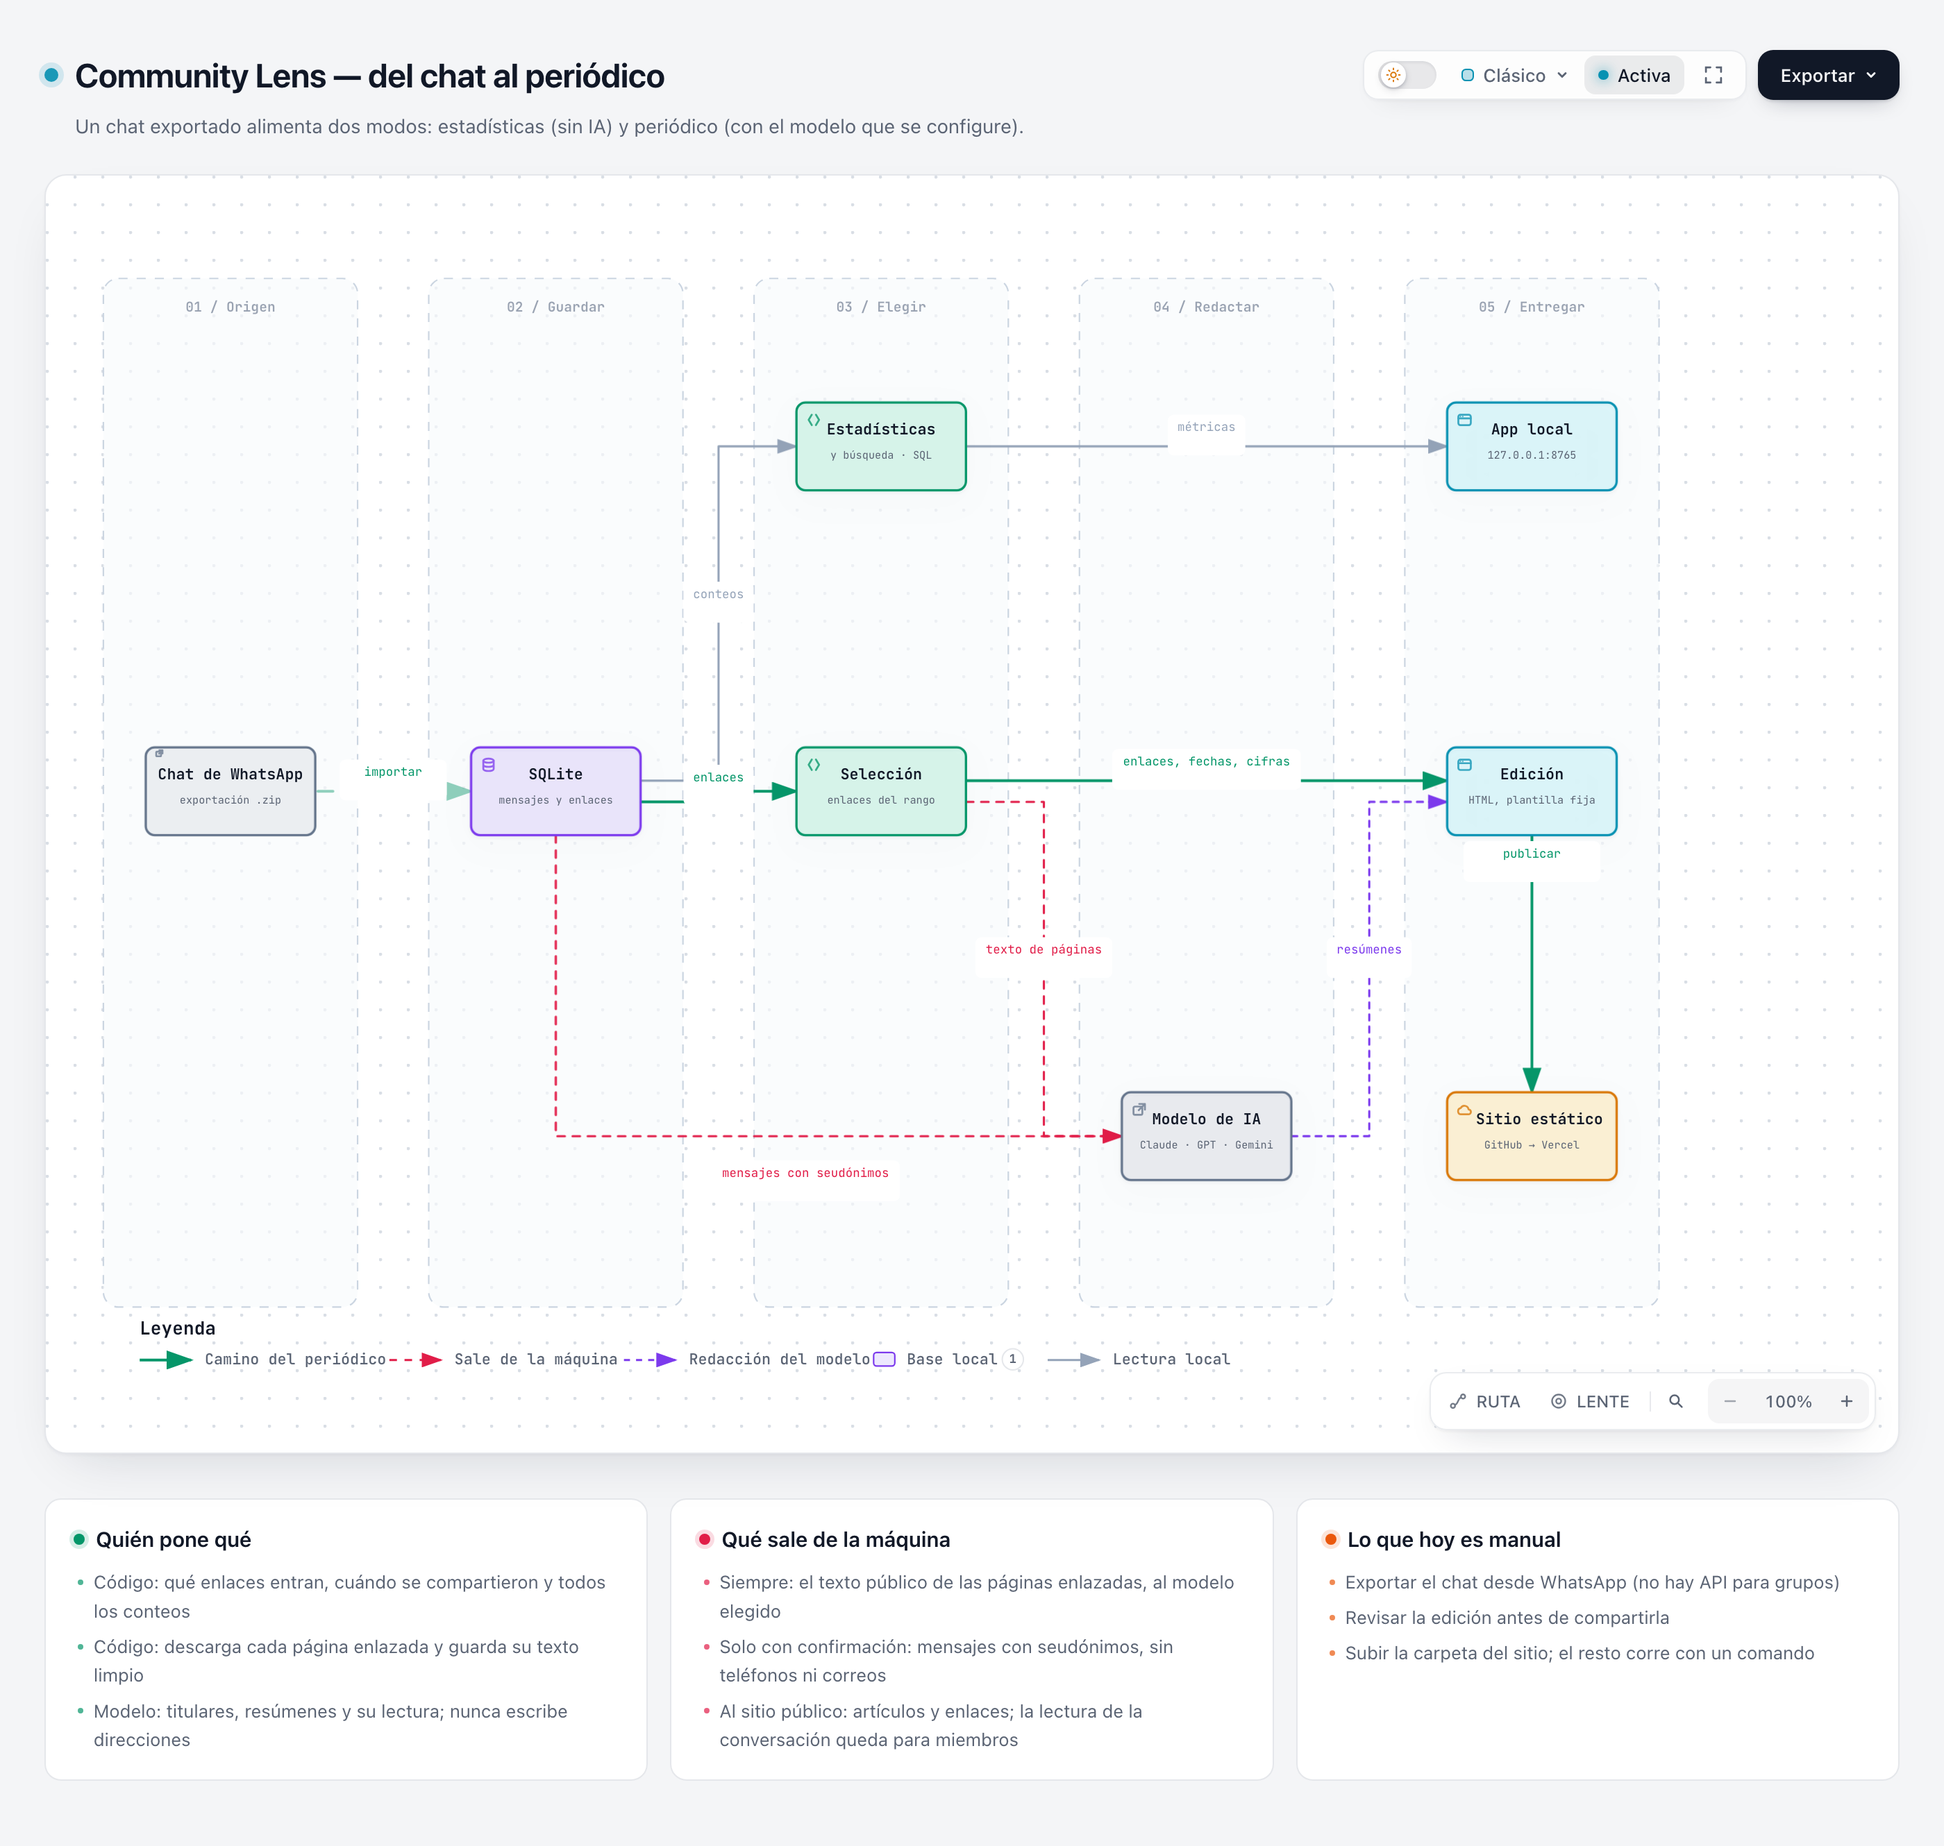
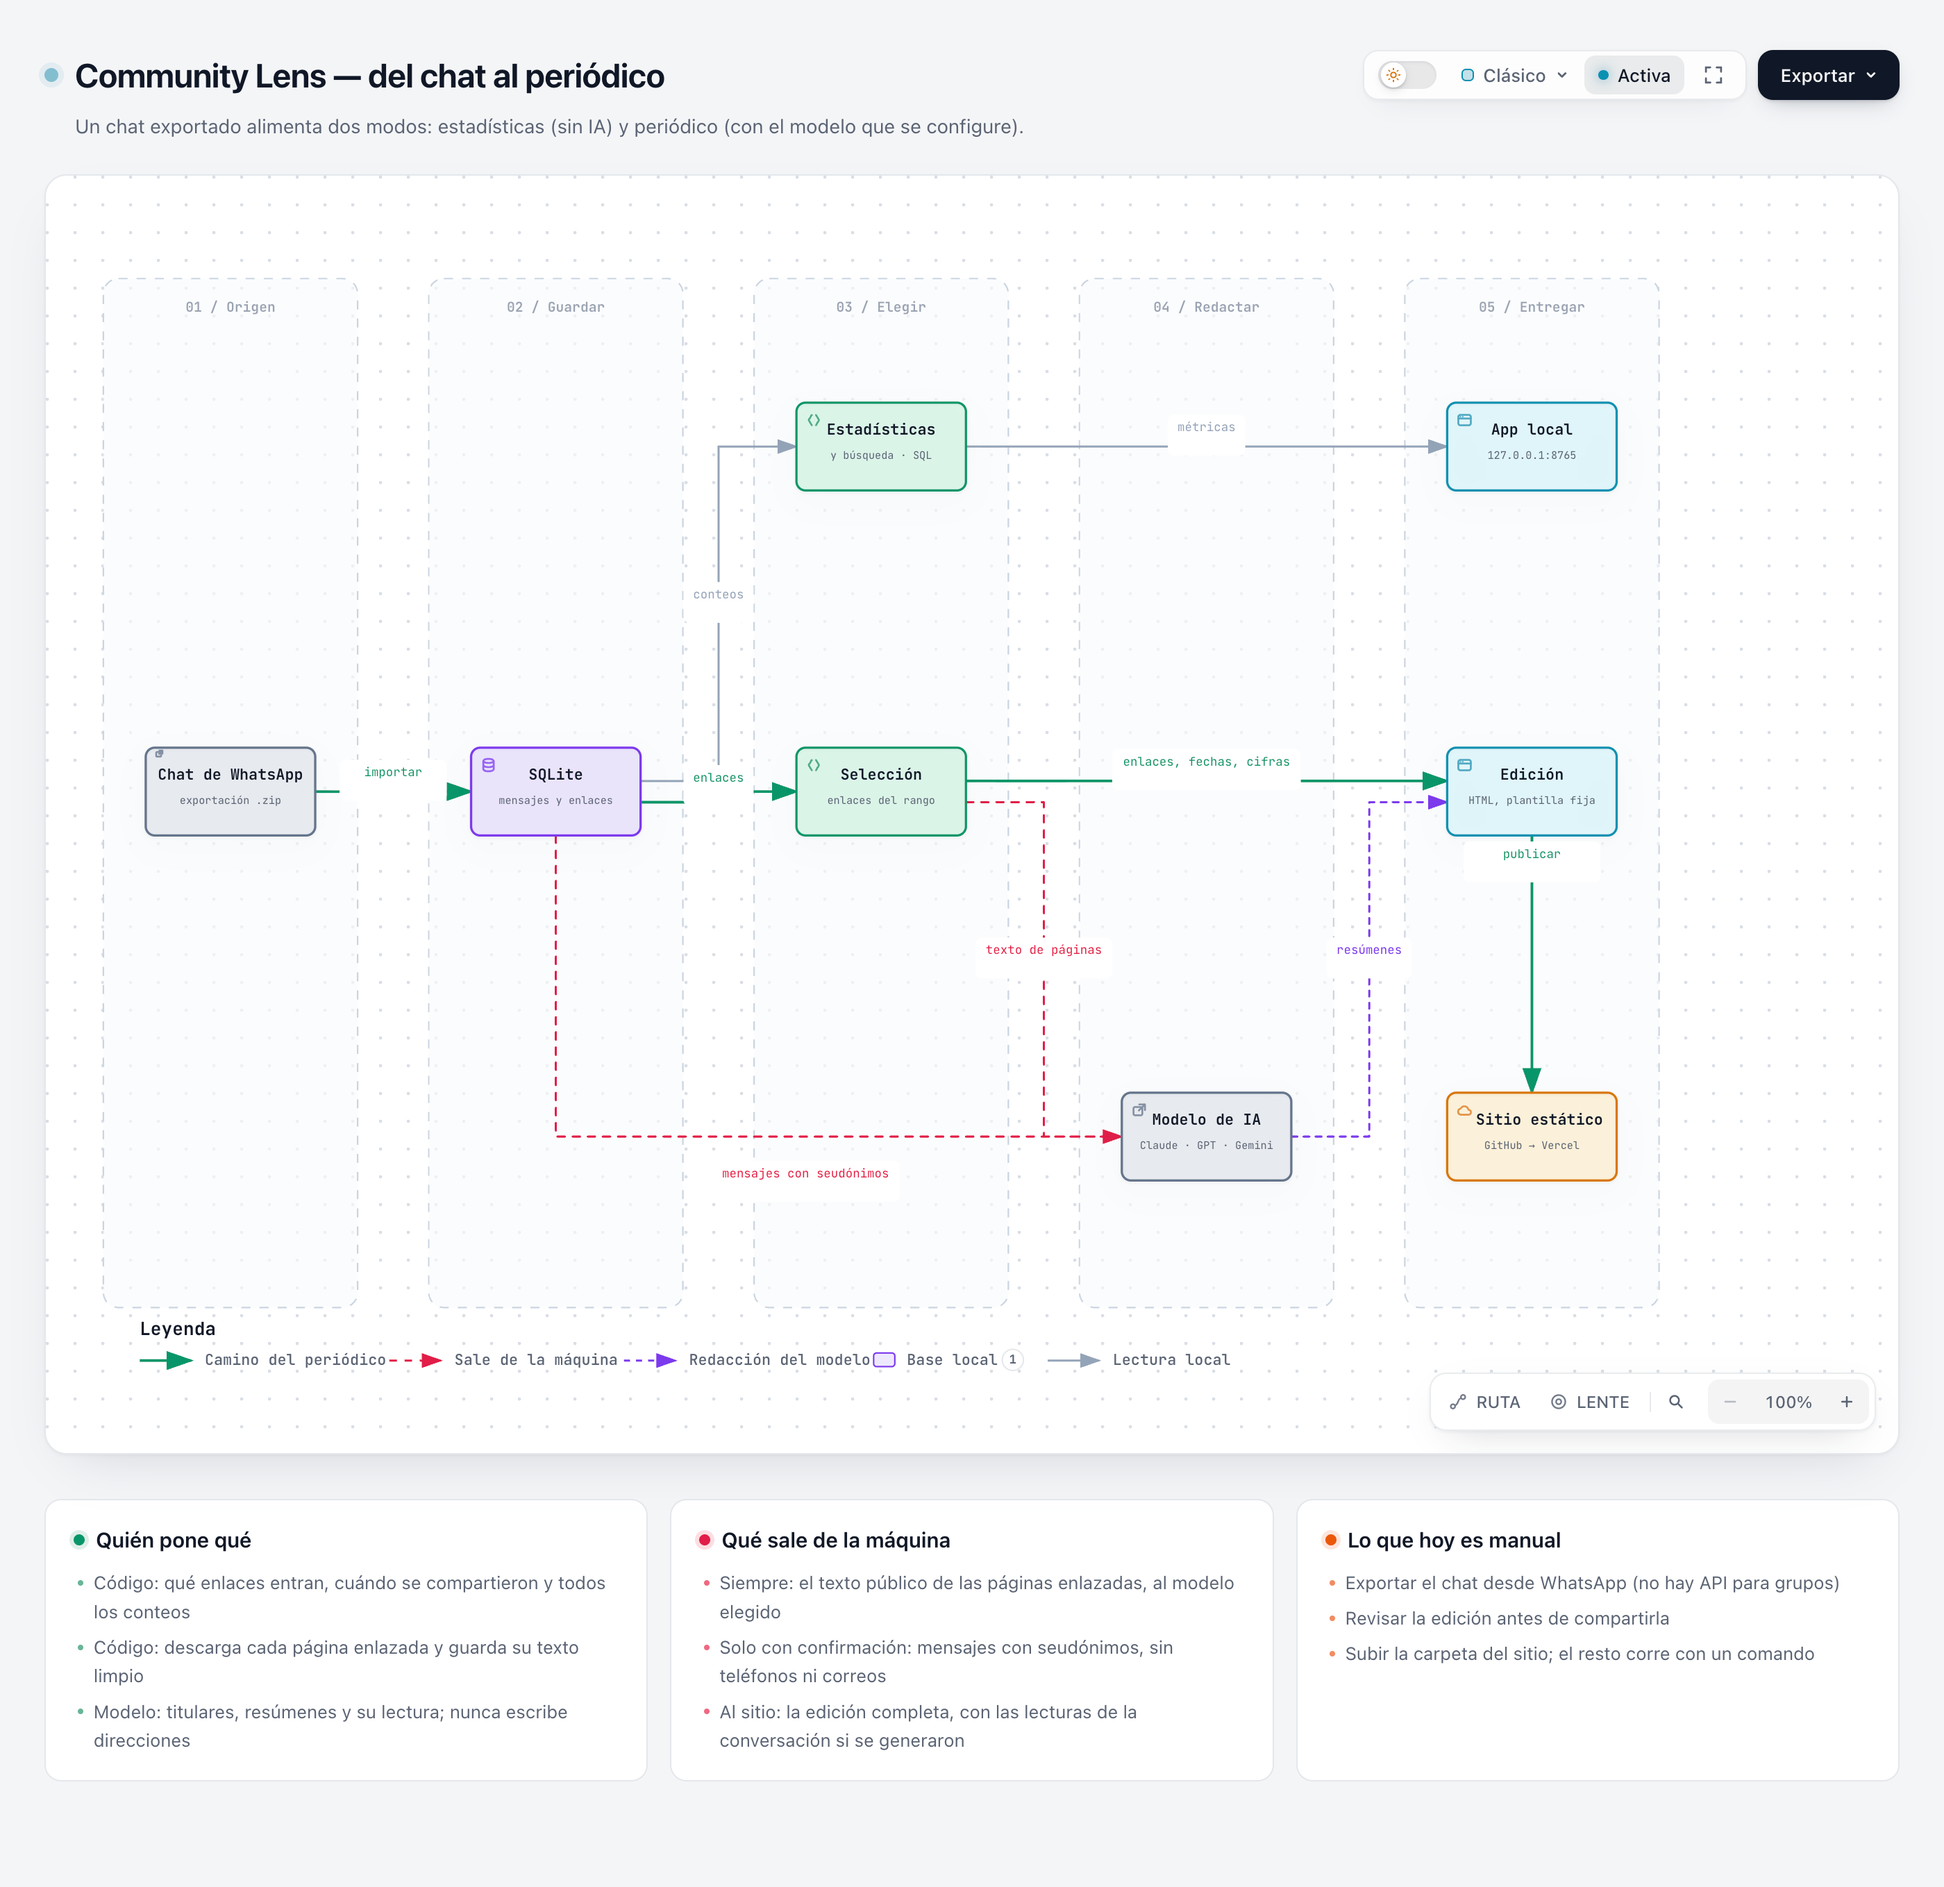
chore: documentación y diagrama del periódico actualizados (#35)

diff --git a/docs/diagramas/periodico.html b/docs/diagramas/periodico.html
@@ -5190,7 +5190,7 @@ OTHER DEALINGS IN THE FONT SOFTWARE.
         <g data-detail="context" data-edge-from="edition" data-edge-to="site" data-edge-label="publicar" data-edge-key="8" data-edge-id="publicar">
           <rect x="914.8" y="418" width="90.4" height="27" rx="4" class="c-mask"/>
           <text x="960" y="429" class="t-edge-emphasis" font-size="8" text-anchor="middle">publicar</text>
-        <text data-detail="fine" x="960" y="440" class="t-dim" font-size="7" text-anchor="middle">sin conversación</text>
+        <text data-detail="fine" x="960" y="440" class="t-dim" font-size="7" text-anchor="middle">edición completa</text>
         </g>
 
         <!-- Legend -->
@@ -5413,7 +5413,7 @@ OTHER DEALINGS IN THE FONT SOFTWARE.
         <ul>
           <li>Siempre: el texto público de las páginas enlazadas, al modelo elegido</li>
           <li>Solo con confirmación: mensajes con seudónimos, sin teléfonos ni correos</li>
-          <li>Al sitio público: artículos y enlaces; la lectura de la conversación queda para miembros</li>
+          <li>Al sitio: la edición completa, con las lecturas de la conversación si se generaron</li>
         </ul>
       </div>
 

diff --git a/README.md b/README.md
@@ -78,7 +78,7 @@ Sin pantalla, para automatizarlo:
 
 Importa la exportación, genera la edición de los 7 días que terminan en el último día con mensajes y escribe
 `sitio/index.html` más una página por edición en `sitio/ediciones/`. Es solo HTML: se sube a cualquier hosting
-estático. `.venv/bin/python -m community_lens periodico --help` lista todas las opciones (rango, modelo, lecturas de la
+estático. Lo que subás es la edición completa: si generaste lecturas de la conversación, van incluidas. `.venv/bin/python -m community_lens periodico --help` lista todas las opciones (rango, modelo, lecturas de la
 conversación, publicar sin generar). Más detalle en [docs/periodico.md](docs/periodico.md).
 
 ## Privacidad
@@ -105,7 +105,7 @@ ellas; tus archivos originales no se tocan. El resto está en [docs/seguridad.md
 - OpenAI y Gemini están implementados y probados con respuestas simuladas, pero no contra el servicio real
   (Claude sí).
 - El TXT de WhatsApp no trae IDs de mensaje, reacciones, respuestas citadas, adjuntos ni lista de miembros.
-  No existen enlaces para abrir un mensaje en WhatsApp, ni se puede calcular "miembros silenciosos".
+  No existen enlaces para abrir un mensaje en WhatsApp.
 - Las horas son las del teléfono que exportó. Dos exportaciones del mismo chat hechas en zonas distintas necesitan
   que declarés la zona de cada una para reconciliarse.
 - La reconciliación compara hora, autor y texto. Si dos teléfonos muestran al mismo autor de forma distinta
@@ -121,27 +121,7 @@ ellas; tus archivos originales no se tocan. El resto está en [docs/seguridad.md
 
 ## Desarrollo
 
-```bash
-.venv/bin/pip install -r requirements-dev.txt   # una vez
-./scripts/check.sh                              # linter + pruebas (+ frontend si hay node_modules)
-```
-
-Las dependencias de Python van con versión exacta en `requirements.txt` y `requirements-dev.txt`, que se generan
-desde `requirements.in` y `requirements-dev.in`. Para agregar o actualizar una, editá el `.in` y regenerá con
-[pip-tools](https://pip-tools.readthedocs.io/) (`pip-compile --strip-extras requirements.in` y lo mismo con
-`requirements-dev.in`); Dependabot propone las actualizaciones una vez al mes.
-
-Las pruebas usan solo datos sintéticos (`tests/fixtures/`), una base temporal por prueba y ninguna llamada de red;
-tampoco leen tu `.env`. GitHub Actions corre el linter y las pruebas (Python 3.11 y 3.12) en cada pull request
-(`.github/workflows/tests.yml`); los cambios entran a `main` por pull request. Cómo proponer uno:
-[CONTRIBUTING.md](CONTRIBUTING.md).
-
-Para cambiar el frontend (TypeScript en `web/src/`, compilado a `web/dist/`, que va versionado):
-
-```bash
-npm install      # una vez; sin esto, pytest se salta la prueba que compila el frontend
-npm run check    # regenera el esquema de la API y compila; una prueba falla si quedan desactualizados
-```
+Pruebas, dependencias y cómo proponer un cambio: [CONTRIBUTING.md](CONTRIBUTING.md).
 
 ## Documentación
 
@@ -166,4 +146,4 @@ Los diagramas están hechos con [Archify](https://github.com/tt-a1i/archify) (li
 Community Lens se publica bajo la [licencia MIT](LICENSE). Las librerías copiadas en `web/vendor/` conservan la suya
 (ver [web/vendor/README.md](web/vendor/README.md)).
 
-[@stern9](https://github.com/stern9): 🤖 Generated with [Claude Code](https://claude.com/claude-code) · ☀ Y Sol contraataca, desde [Codex](https://openai.com/codex/).
+[@stern9](https://github.com/stern9): 🤖 Generated with [Claude Code](https://claude.com/claude-code) (Claude Opus 5.5) · ☀ Y Sol contraataca, desde [Codex](https://openai.com/codex/).

diff --git a/CONTRIBUTING.md b/CONTRIBUTING.md
@@ -30,18 +30,26 @@ conocer (sin framework en el frontend, SQL sin ORM, nada sale de la máquina sin
 
 ## Cambiar código
 
-1. Arrancá la app y corré las pruebas como indica el [README](README.md#desarrollo).
+1. Arrancá la app como indica el [README](README.md#arrancar) e instalá las herramientas de desarrollo:
+   ```bash
+   .venv/bin/pip install -r requirements-dev.txt   # una vez
+   ./scripts/check.sh                              # lo mismo que corre CI: linter, frontend (si hay node_modules) y pruebas
+   ```
 2. Leé [AGENTS.md](AGENTS.md): son las reglas del proyecto y valen igual si el cambio lo escribe una persona o
    un agente de código. Si usás un agente, vos respondés por lo que entrega.
-3. Hacé un cambio acotado, con su prueba. Antes de entregarlo:
-   ```bash
-   ./scripts/check.sh   # lo mismo que corre CI: linter, pruebas y, si tocaste web/src/, el frontend
-   ```
+3. Hacé un cambio acotado, con su prueba, y corré `./scripts/check.sh` antes de entregarlo. Si tocás `web/src/`,
+   hace falta Node y regenerar `web/dist/`: ver [docs/frontend.md](docs/frontend.md).
 4. Mensajes de commit: una línea corta con prefijo de tipo (`feature:`, `fix:`, `chore:`).
 5. Abrí un pull request desde una rama (`fix/…`, `feature/…` o `chore/…`); a `main` no se sube directo.
    Decí qué issue resuelve, qué verificaste y qué no. Se integra con las pruebas de CI en verde.
 
-Las pruebas no usan la red ni datos reales; un cambio que lo necesite para pasar no se acepta.
+Las pruebas usan solo datos sintéticos (`tests/fixtures/`), una base temporal por prueba y ninguna llamada de red;
+tampoco leen tu `.env`. Un cambio que necesite red o datos reales para pasar no se acepta.
+
+**Dependencias de Python.** Van con versión exacta en `requirements.txt` y `requirements-dev.txt`, que se generan
+desde `requirements.in` y `requirements-dev.in`. Para agregar o actualizar una, editá el `.in` y regenerá con
+[pip-tools](https://pip-tools.readthedocs.io/) (`pip-compile --strip-extras requirements.in` y lo mismo con
+`requirements-dev.in`); Dependabot propone las actualizaciones una vez al mes.
 
 ## Qué pasa con tu pull request
 

diff --git a/docs/periodico.md b/docs/periodico.md
@@ -67,12 +67,8 @@ Una edición se guarda como JSON en `editions.data` y se dibuja de nuevo cada ve
 mejora de la plantilla llega también a las ediciones viejas. `community_lens/edition.py` es el único lugar que
 conoce sus campos: los declara, lleva un número de formato (`FORMAT`) y tiene una sola función, `upgrade()`, que
 convierte cualquier edición guardada con una forma anterior a la actual. Abrir una edición vieja no la reescribe.
+La columna `editions.html`, de una versión anterior, no se lee (ver [arquitectura.md](arquitectura.md#modelo-de-datos)).
 
-La columna `editions.html` quedó de una versión anterior que guardaba también la página ya dibujada. No se lee;
-las ediciones nuevas la dejan vacía y las viejas conservan lo que tenían.
-
-## Origen de la idea
-
-El formato de periódico y la idea de que un modelo lea las páginas y arme la portada vienen de
-[ai-newtab](https://github.com/ThariqS/ai-newtab) de Thariq (`ThariqS`, licencia MIT). Aquí no se usa su código:
-la lectura se hace en Python y el diseño es una plantilla, para que cada edición salga con la misma forma.
+El formato de periódico se inspira en ai-newtab (créditos en el [README](../README.md#créditos-y-licencia)); aquí
+no se usa su código: la lectura se hace en Python y el diseño es una plantilla, para que cada edición salga con la
+misma forma.

diff --git a/AGENTS.md b/AGENTS.md
@@ -39,7 +39,7 @@ lo pida. No propongás lo que ya está decidido (ver al final).
   líneas de co-autoría. Los cambios llegan a `main` por pull request, con las pruebas de CI en verde.
 - No agregués dependencias (Python ni npm) sin preguntar: la app corre sin Node y sin internet, y cada
   dependencia es algo que el usuario instala en su máquina. `requirements.txt` y `requirements-dev.txt` no se
-  editan a mano: se generan desde los `.in` con `pip-compile` (ver README).
+  editan a mano: se generan desde los `.in` con `pip-compile` (ver [CONTRIBUTING](CONTRIBUTING.md)).
 - No borrés ni renombrés columnas ni tablas. No hay migraciones: `db.py` crea lo que falta al conectar y existe
   una base real con el esquema actual. Un cambio de esquema o de datos derivados es aditivo, idempotente y se
   aplica al abrir una base vieja (el `ALTER TABLE` condicional en `db.connect` es el modelo). Una edición del

diff --git a/docs/metricas.md b/docs/metricas.md
@@ -42,5 +42,5 @@ Son estimaciones (con las correcciones humanas aplicadas), no conteos oficiales.
 
 ## Enlaces
 
-En Recursos y en el periódico, "el mismo enlace" es una sola cosa: no distingue `www.` / `m.`, barra final ni
-parámetros `utm_…`. Las "compartidas" de un enlace son los mensajes distintos que lo incluyen.
+Las "compartidas" de un enlace son los mensajes distintos que lo incluyen. Qué cuenta como "el mismo enlace" (la
+misma regla en Recursos y en el periódico) está en [periodico.md](periodico.md#quién-produce-cada-parte).
